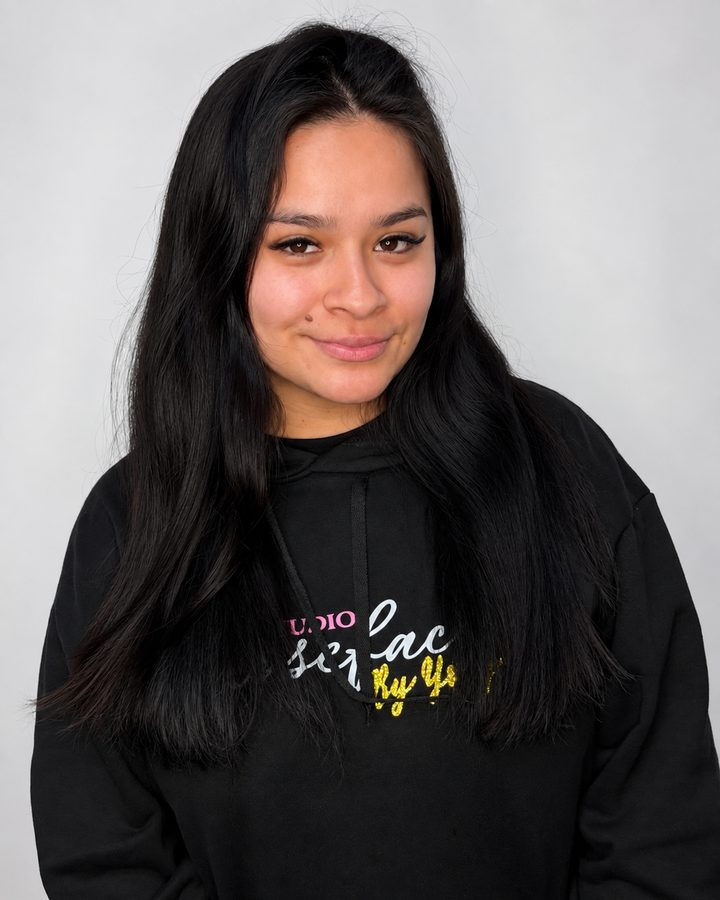
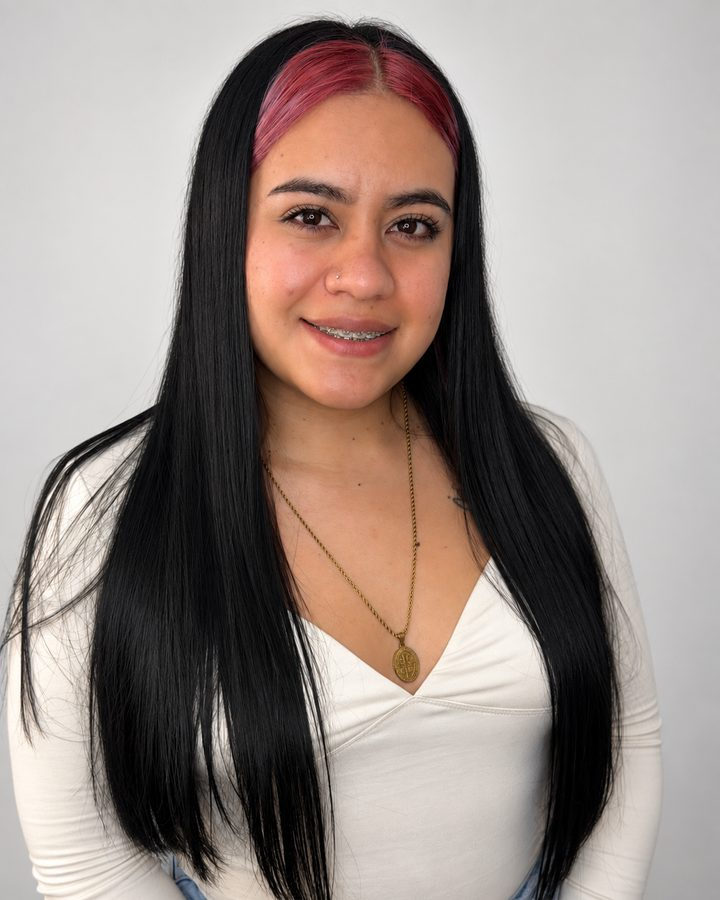
fix: swap foto/video Sharon↔Ariannys + URLs de perfil por nombre, no por id
- Se intercambian los archivos de foto entre prof-sharon y prof-alexandra
  (Ariannys tenía la foto de Sharon y viceversa) — solo cambia la imagen,
  los nombres quedan como estaban.
- El video "Video Ari pestañas" se mueve de prof-sharon a prof-alexandra
  (Ariannys) en Supabase.
- Las URLs de perfil dejan de exponer el id interno
  (/profesionales/prof-sharon) y pasan a un slug del nombre real
  (/profesionales/sharon, /profesionales/ariannys, etc.) vía
  slugDeNombre() en src/lib/profesionalSlug.ts. El id interno no cambia
  (sigue siendo la clave real en Supabase/servicios/turnos) — solo el
  segmento de la URL de perfil.

diff --git a/src/pages/Profesionales.tsx b/src/pages/Profesionales.tsx
@@ -6,6 +6,7 @@ import { Button } from '../components/ui/Button';
 import { Card } from '../components/ui/Card';
 import { Badge } from '../components/ui/Badge';
 import { Star, ChevronRight, Sparkles } from 'lucide-react';
+import { slugDeNombre } from '../lib/profesionalSlug';
 
 export const Profesionales: React.FC = () => {
   const { profesionales } = useApp();
@@ -41,7 +42,7 @@ export const Profesionales: React.FC = () => {
           <Card key={prof.id} hoverable className="space-y-5 flex flex-col justify-between">
             <div className="space-y-4">
               <Link
-                to={`/profesionales/${prof.id}`}
+                to={`/profesionales/${slugDeNombre(prof.nombre)}`}
                 className="relative rounded-2xl overflow-hidden border border-pink-100 shadow-xs group block"
               >
                 <img
@@ -88,7 +89,7 @@ export const Profesionales: React.FC = () => {
             </div>
 
             <div className="pt-4 border-t border-pink-100 flex items-center justify-between gap-2">
-              <Link to={`/profesionales/${prof.id}`} className="flex-1">
+              <Link to={`/profesionales/${slugDeNombre(prof.nombre)}`} className="flex-1">
                 <Button variant="outline" size="sm" fullWidth>
                   Ver Perfil & Galería
                 </Button>

diff --git a/src/pages/PerfilProfesional.tsx b/src/pages/PerfilProfesional.tsx
@@ -8,6 +8,7 @@ import { Badge } from '../components/ui/Badge';
 import { formatCurrency } from '../lib/formatters';
 import { Lightbox } from '../components/ui/Lightbox';
 import { VideoYoutube } from '../components/ui/VideoYoutube';
+import { slugDeNombre } from '../lib/profesionalSlug';
 import {
   Star,
   Calendar,
@@ -20,12 +21,12 @@ import {
 } from 'lucide-react';
 
 export const PerfilProfesional: React.FC = () => {
-  const { id } = useParams<{ id: string }>();
+  const { slug } = useParams<{ slug: string }>();
   const { profesionales, servicios } = useApp();
   const [activeTab, setActiveTab] = useState<string>('todos');
   const [imagenActiva, setImagenActiva] = useState<number | null>(null);
 
-  const prof = profesionales.find((p) => p.id === id);
+  const prof = profesionales.find((p) => slugDeNombre(p.nombre) === slug);
 
   if (!prof) {
     return (

diff --git a/src/pages/Home.tsx b/src/pages/Home.tsx
@@ -12,6 +12,7 @@ import { Logo } from '../components/ui/Logo';
 import { Lightbox } from '../components/ui/Lightbox';
 import { VideoYoutube } from '../components/ui/VideoYoutube';
 import { urlFor } from '../data/trabajosFotos';
+import { slugDeNombre } from '../lib/profesionalSlug';
 import { Calendar, Star, MapPin, Clock, MessageCircle, Heart, Sparkles, GraduationCap, Gem, ExternalLink } from 'lucide-react';
 
 // Trabajos reales destacados en el Home — nombre de técnica = nombre real
@@ -189,7 +190,7 @@ export const Home: React.FC = () => {
           {profesionales.map((prof) => (
             <Link
               key={prof.id}
-              to={`/profesionales/${prof.id}`}
+              to={`/profesionales/${slugDeNombre(prof.nombre)}`}
               className="flex flex-col items-center gap-2 shrink-0 w-20"
             >
               <img

diff --git a/src/lib/profesionalSlug.ts b/src/lib/profesionalSlug.ts
@@ -1,0 +1,15 @@
+// src/lib/profesionalSlug.ts
+//
+// URLs como /profesionales/prof-sharon exponían el id interno (feo, poco
+// profesional, y encima quedó desalineado del nombre real más de una vez
+// esta semana). Las páginas de perfil ahora se linkean por un slug
+// derivado del nombre — "Ariannys" -> "ariannys" — nunca por el id.
+export function slugDeNombre(nombre: string): string {
+  return nombre
+    .normalize('NFD')
+    .replace(/[̀-ͯ]/g, '') // saca acentos (á -> a, é -> e...)
+    .toLowerCase()
+    .trim()
+    .replace(/[^a-z0-9]+/g, '-')
+    .replace(/^-+|-+$/g, '');
+}

diff --git a/src/router.tsx b/src/router.tsx
@@ -120,7 +120,7 @@ export const router = createBrowserRouter([
       { path: 'reserva/confirmacion', element: <ReservaConfirmacion /> },
       { path: 'reserva/transferencia', element: <ReservaTransferencia /> },
       { path: 'profesionales', element: <Profesionales /> },
-      { path: 'profesionales/:id', element: <PerfilProfesional /> },
+      { path: 'profesionales/:slug', element: <PerfilProfesional /> },
     ],
   },
   {
